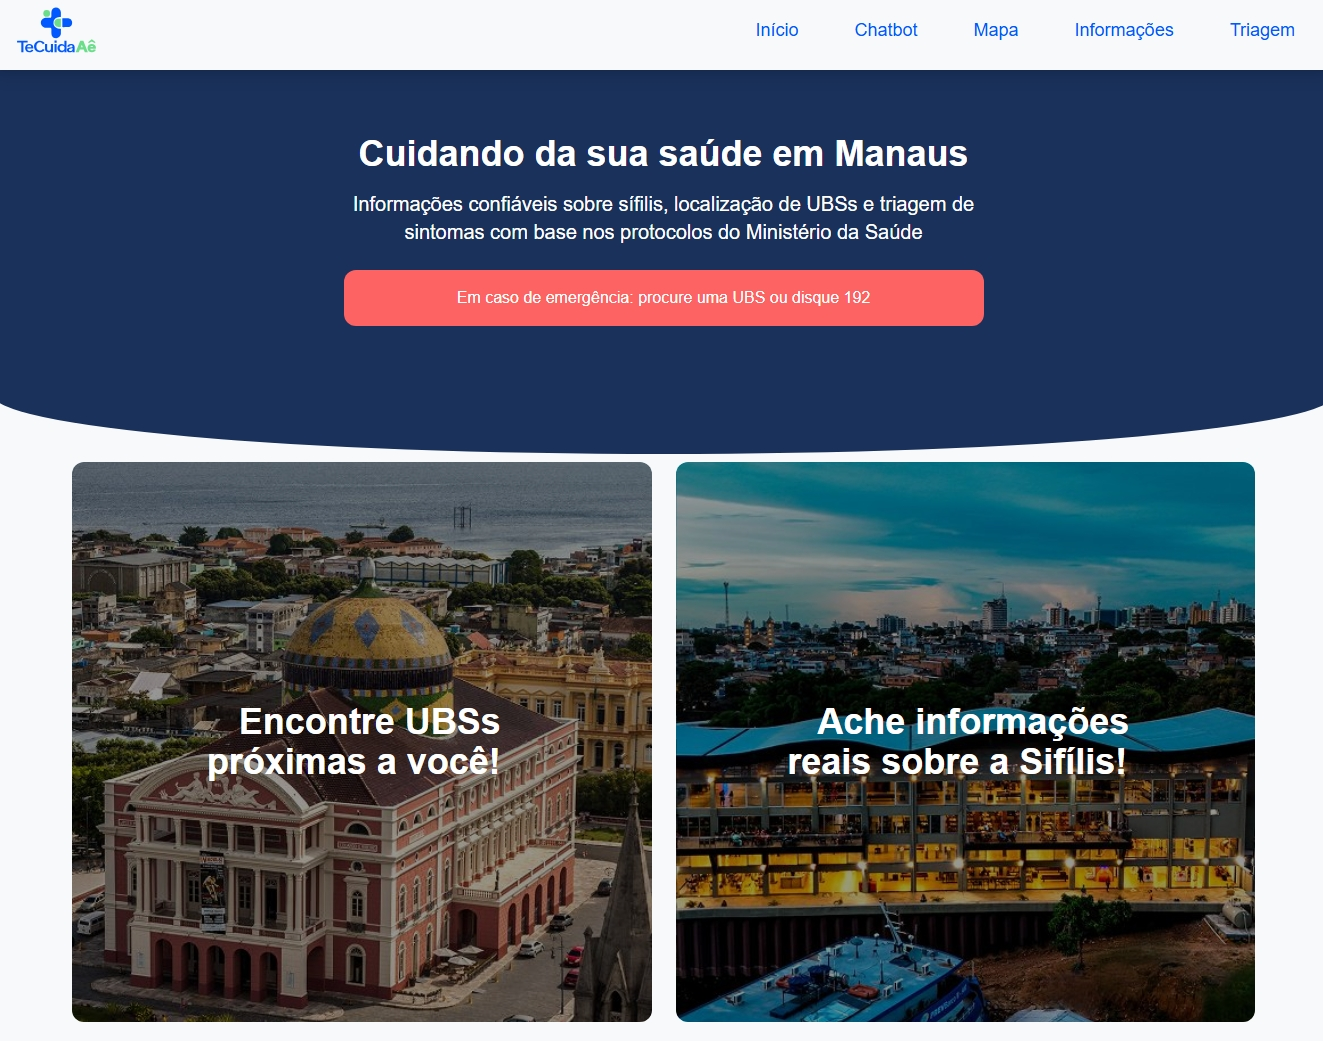
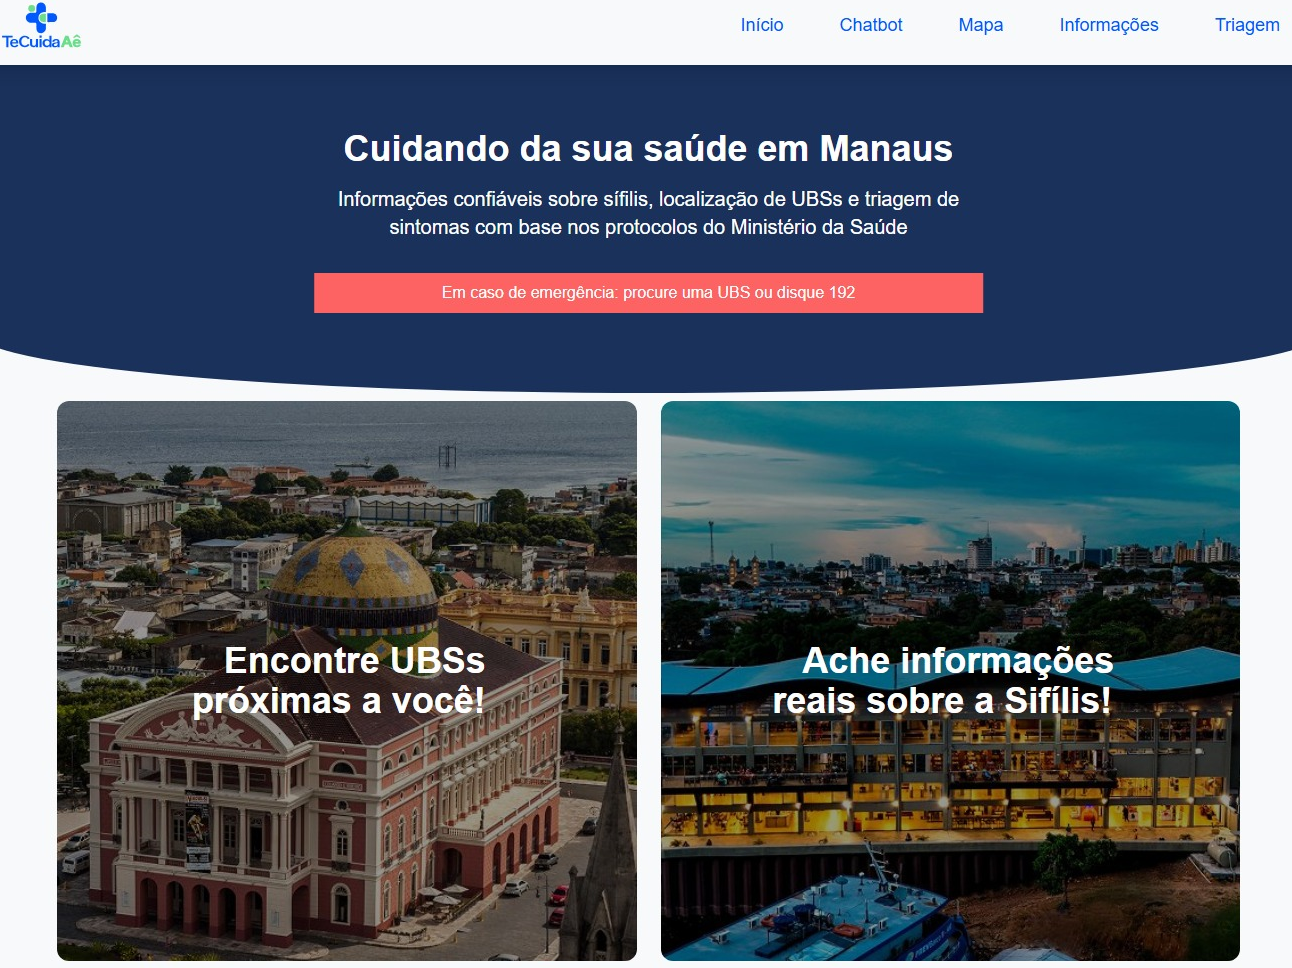
Ajuste na pigina Home e Ajuste no Readme

diff --git a/client/src/pages/Home.tsx b/client/src/pages/Home.tsx
@@ -104,19 +104,20 @@ export default function Home() {
         </div>
       </header>
 
-      {/* Hero Section */}
-<section className="relative bg-backgroundSectionHome text-white pt-10 pb-14 md: md:pb-32 flex flex-col items-center justify-center overflow-hidden" style={{borderRadius: "0 0 50% 50% / 0 0 60px 60px"}}>
+     {/* Hero Section */}
+<section className="relative bg-backgroundSectionHome text-white pt-10 pb-14 md:pt-16 md:pb-32 flex flex-col items-center justify-center overflow-hidden" style={{borderRadius: "0 0 50% 50% / 0 0 60px 60px"}}>
   <div className="container relative z-10 text-center">
     <div className="max-w-2xl mx-auto px-4">
       <h1 className="text-2xl sm:text-3xl md:text-4xl font-semibold mb-4 text-center">
         Cuidando da sua saúde em Manaus
       </h1>
-      <p className="text-sm sm:text-base font-light md:text-xl mb-0ac">
+      <p className="text-sm sm:text-base font-light md:text-xl mb-6">
         Informações confiáveis sobre sífilis, localização de UBSs e triagem de sintomas com base nos protocolos do Ministério da Saúde
       </p>
-    </div>
+      </div>
   </div>
-  <div className="absolute bottom-16 md:bottom-18 left-0 right-0 bg-backgroundAlert text-white py-2 font-medium text-sm sm:text-base animate-pulse text-center">
+  {/* Alerta de emergência */}
+  <div className="w-auto px-20 md:px-32 bg-backgroundAlert text-white py-2 font-medium text-sm md:text-base text-center mt-2 md:mt-0 md:absolute md:bottom-20 md:left-1/2 md:-translate-x-1/2">
     <p>Em caso de emergência: procure uma UBS ou disque 192</p>
   </div>
 </section>